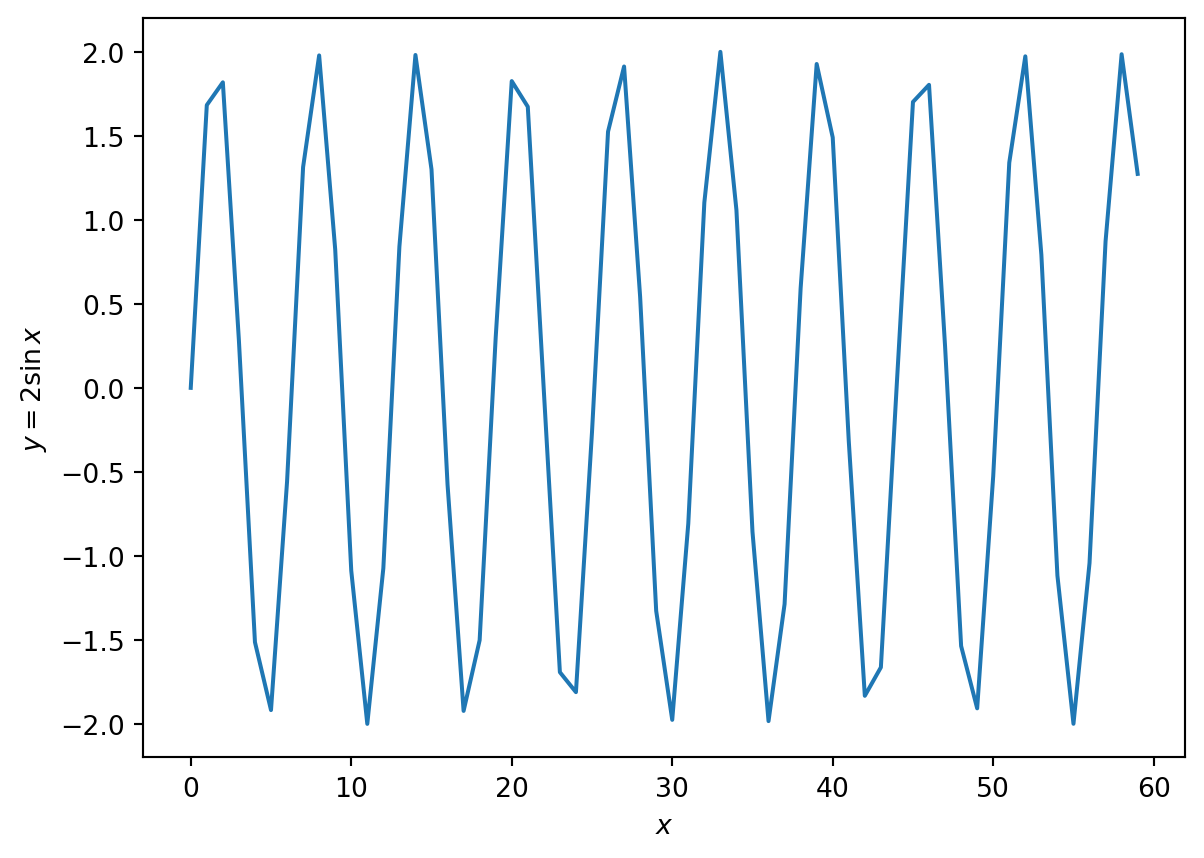
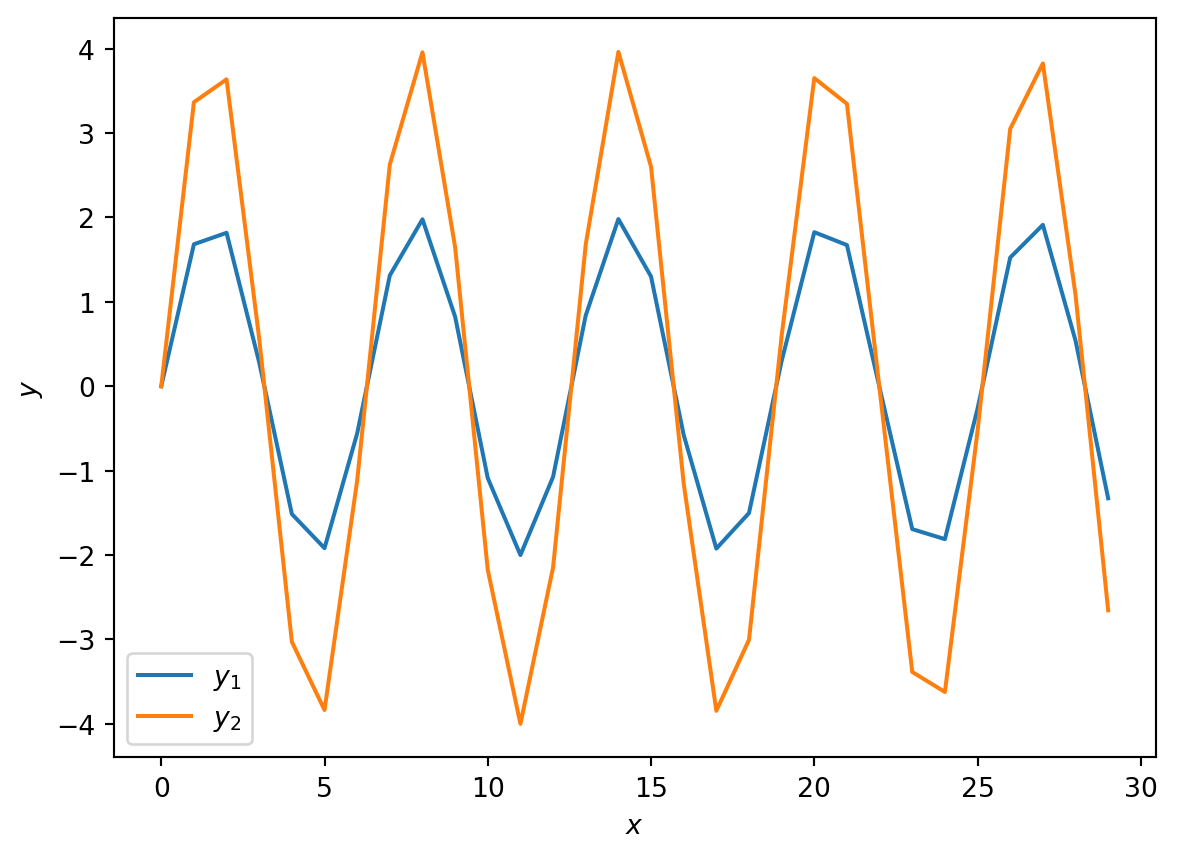
new render

diff --git a/docs/computations.html b/docs/computations.html
@@ -167,24 +167,27 @@ window.Quarto = {
 
 <section id="example-simple-matplotlib-plotting" class="level3">
 <h3 class="anchored" data-anchor-id="example-simple-matplotlib-plotting">Example: Simple Matplotlib Plotting</h3>
-<p>Take <span class="math inline">\(x \in [0,60]\)</span> and <span class="math inline">\(y = 2\sin{x}\)</span></p>
-<div id="ee51d996" class="cell" data-execution_count="1">
+<p>Take <span class="math inline">\(x \in [0,30]\)</span> and <span class="math inline">\(y_{1} = 2\sin{x}, y_{2} = 4\sin{x}\)</span></p>
+<div id="aa0794a2" class="cell" data-execution_count="1">
 <details class="code-fold">
 <summary>Code</summary>
 <div class="code-copy-outer-scaffold"><div class="sourceCode cell-code" id="cb1"><pre class="sourceCode python code-with-copy"><code class="sourceCode python"><span id="cb1-1"><a href="#cb1-1" aria-hidden="true" tabindex="-1"></a><span class="im">import</span> numpy <span class="im">as</span> np</span>
 <span id="cb1-2"><a href="#cb1-2" aria-hidden="true" tabindex="-1"></a><span class="im">import</span> matplotlib.pyplot <span class="im">as</span> plt</span>
 <span id="cb1-3"><a href="#cb1-3" aria-hidden="true" tabindex="-1"></a></span>
-<span id="cb1-4"><a href="#cb1-4" aria-hidden="true" tabindex="-1"></a>x <span class="op">=</span> np.arange(<span class="dv">60</span>)</span>
-<span id="cb1-5"><a href="#cb1-5" aria-hidden="true" tabindex="-1"></a>y <span class="op">=</span> <span class="dv">2</span> <span class="op">*</span> np.sin(x)</span>
-<span id="cb1-6"><a href="#cb1-6" aria-hidden="true" tabindex="-1"></a></span>
-<span id="cb1-7"><a href="#cb1-7" aria-hidden="true" tabindex="-1"></a>plt.ylabel(<span class="vs">r'</span><span class="dv">$</span><span class="vs">y = 2</span><span class="dv">\s</span><span class="vs">in{x}</span><span class="dv">$</span><span class="vs">'</span>)</span>
-<span id="cb1-8"><a href="#cb1-8" aria-hidden="true" tabindex="-1"></a>plt.xlabel(<span class="vs">r'</span><span class="dv">$</span><span class="vs">x</span><span class="dv">$</span><span class="vs">'</span>)</span>
-<span id="cb1-9"><a href="#cb1-9" aria-hidden="true" tabindex="-1"></a>plt.plot(x,y)</span></code></pre></div><button title="Copy to Clipboard" class="code-copy-button"><i class="bi"></i></button></div>
+<span id="cb1-4"><a href="#cb1-4" aria-hidden="true" tabindex="-1"></a>x <span class="op">=</span> np.arange(<span class="dv">30</span>)</span>
+<span id="cb1-5"><a href="#cb1-5" aria-hidden="true" tabindex="-1"></a>y1 <span class="op">=</span> <span class="dv">2</span> <span class="op">*</span> np.sin(x)</span>
+<span id="cb1-6"><a href="#cb1-6" aria-hidden="true" tabindex="-1"></a>y2 <span class="op">=</span> <span class="dv">4</span> <span class="op">*</span> np.sin(x)</span>
+<span id="cb1-7"><a href="#cb1-7" aria-hidden="true" tabindex="-1"></a></span>
+<span id="cb1-8"><a href="#cb1-8" aria-hidden="true" tabindex="-1"></a>plt.ylabel(<span class="vs">r'</span><span class="dv">$</span><span class="vs">y</span><span class="dv">$</span><span class="vs">'</span>)</span>
+<span id="cb1-9"><a href="#cb1-9" aria-hidden="true" tabindex="-1"></a>plt.xlabel(<span class="vs">r'</span><span class="dv">$</span><span class="vs">x</span><span class="dv">$</span><span class="vs">'</span>)</span>
+<span id="cb1-10"><a href="#cb1-10" aria-hidden="true" tabindex="-1"></a>plt.plot(x,y1, label <span class="op">=</span> <span class="vs">r"</span><span class="dv">$</span><span class="vs">y_</span><span class="op">{1}</span><span class="dv">$</span><span class="vs">"</span>)</span>
+<span id="cb1-11"><a href="#cb1-11" aria-hidden="true" tabindex="-1"></a>plt.plot(x,y2, label <span class="op">=</span> <span class="vs">r"</span><span class="dv">$</span><span class="vs">y_</span><span class="op">{2}</span><span class="dv">$</span><span class="vs">"</span>)</span>
+<span id="cb1-12"><a href="#cb1-12" aria-hidden="true" tabindex="-1"></a>plt.legend()</span></code></pre></div><button title="Copy to Clipboard" class="code-copy-button"><i class="bi"></i></button></div>
 </details>
 <div class="cell-output cell-output-display">
 <div>
 <figure class="figure">
-<p><img src="computations_files/figure-html/cell-2-output-1.png" width="602" height="429" class="figure-img"></p>
+<p><img src="computations_files/figure-html/cell-2-output-1.png" width="589" height="429" class="figure-img"></p>
 </figure>
 </div>
 </div>
